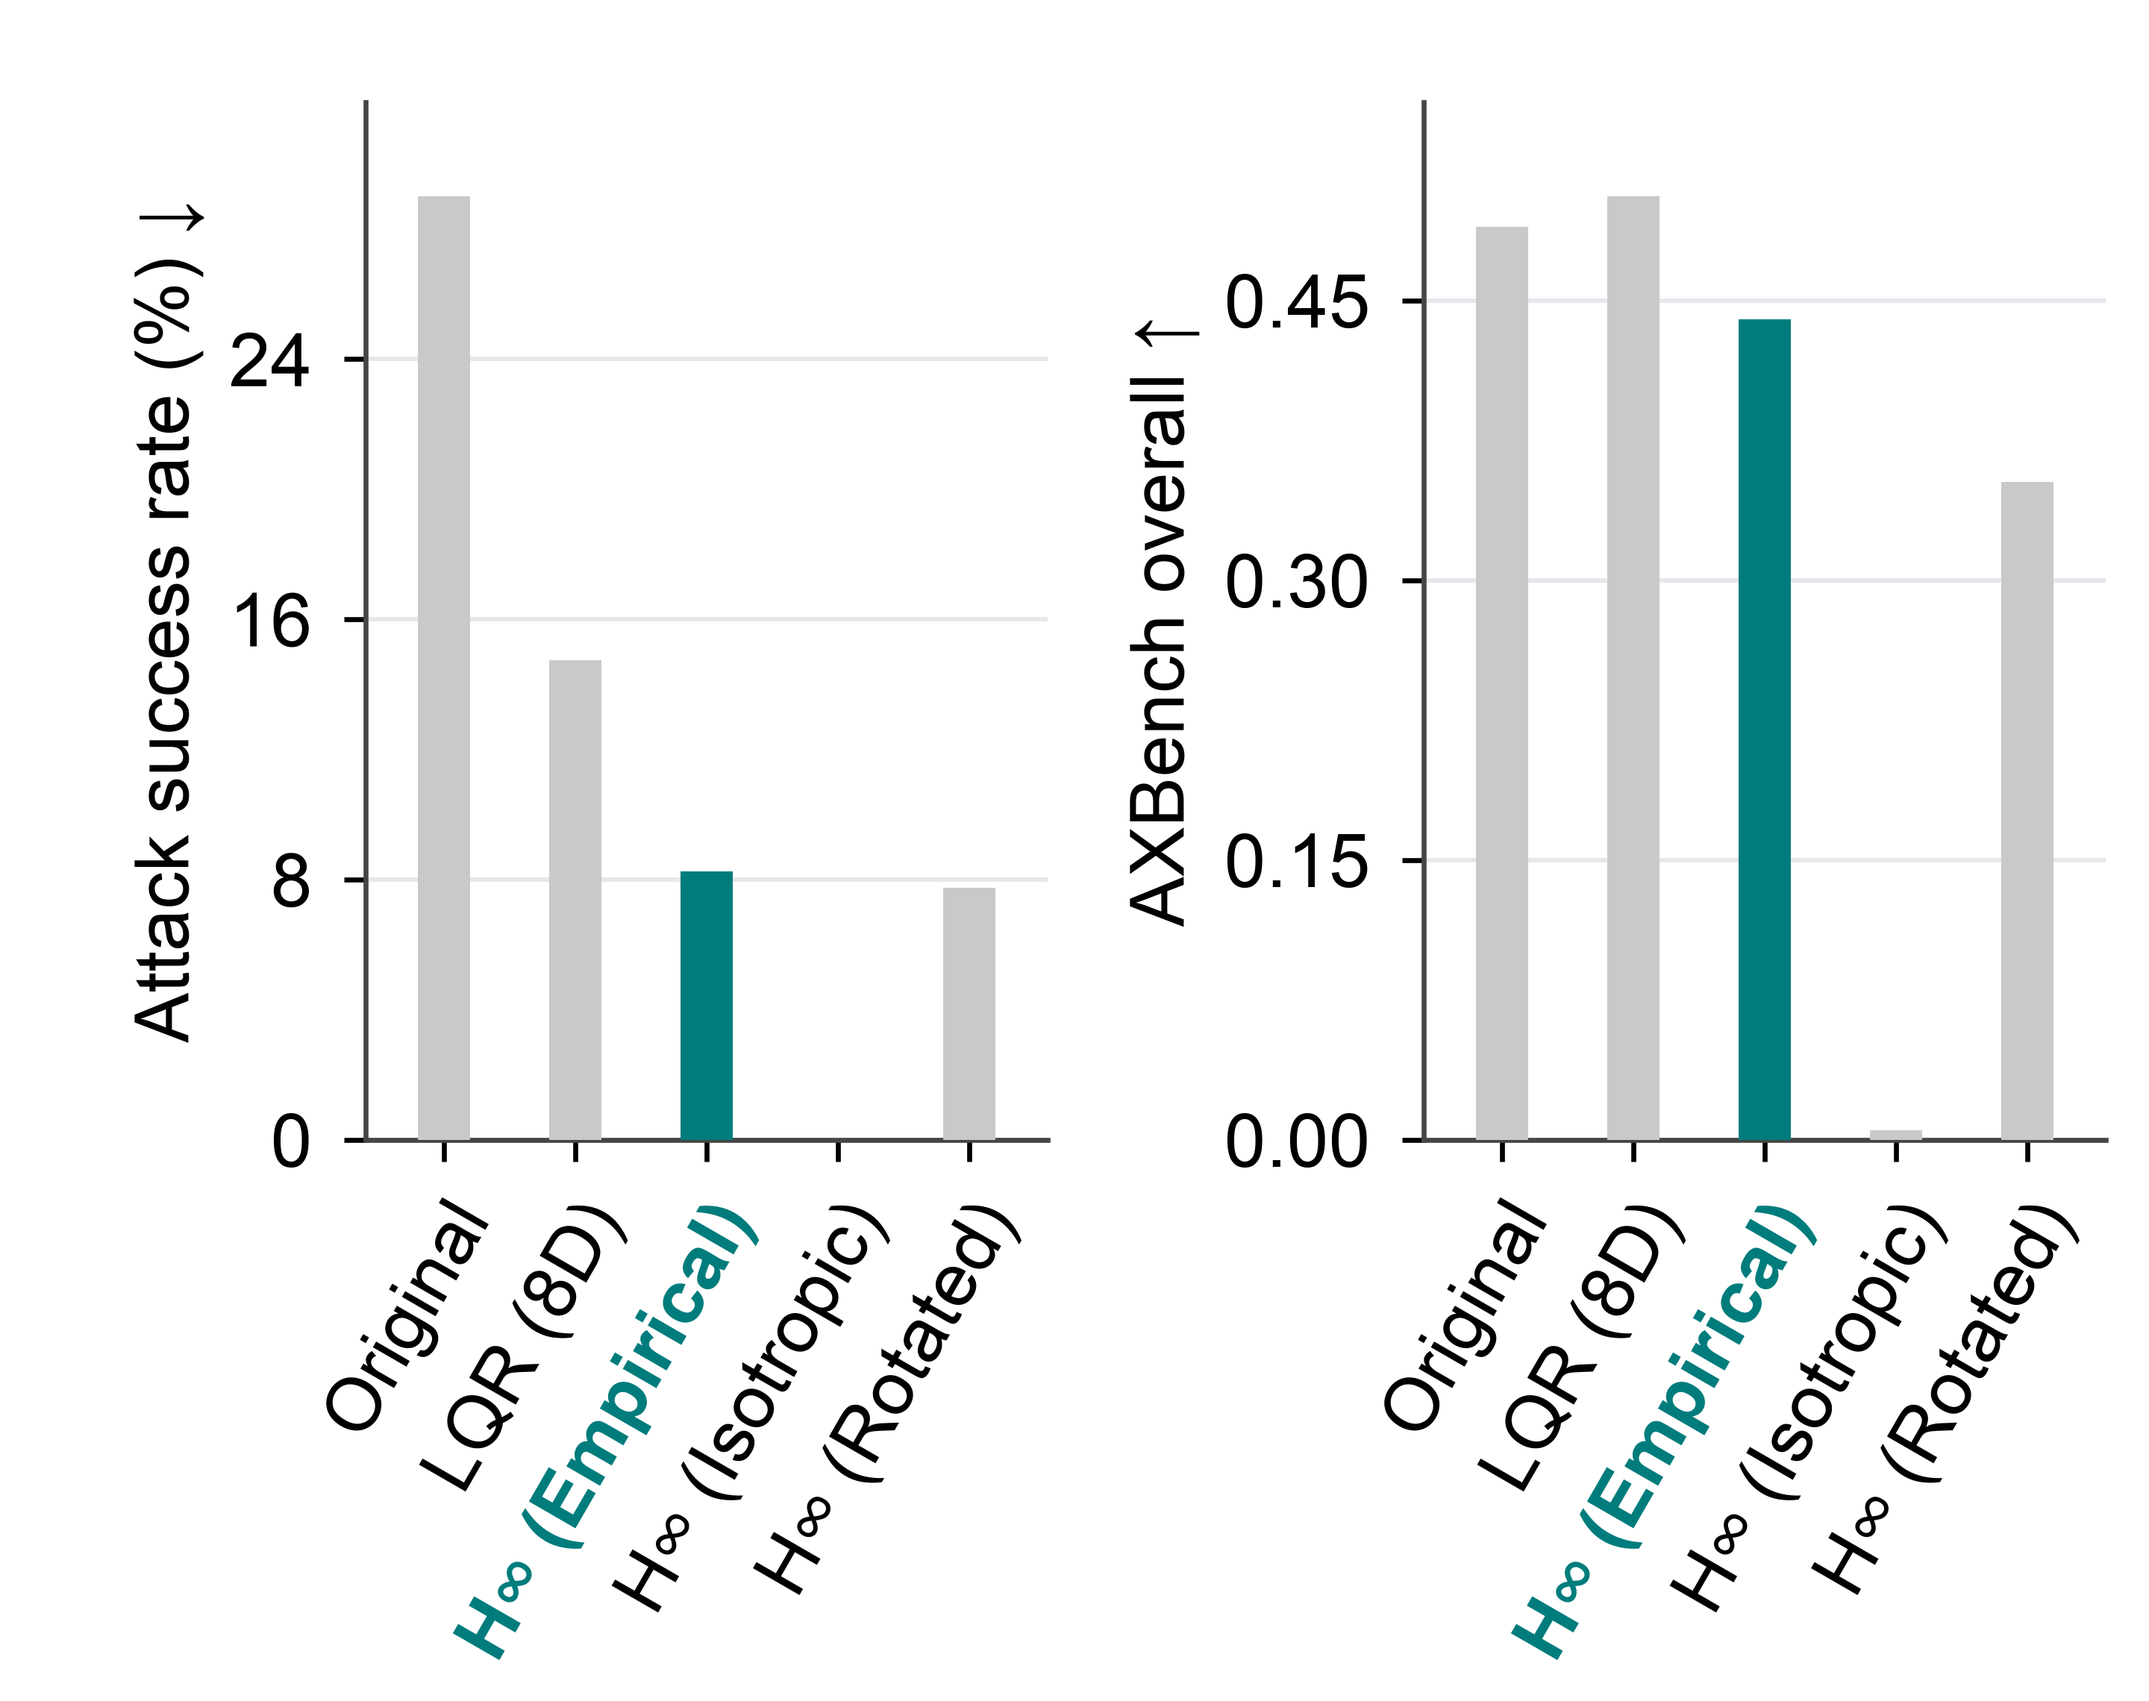
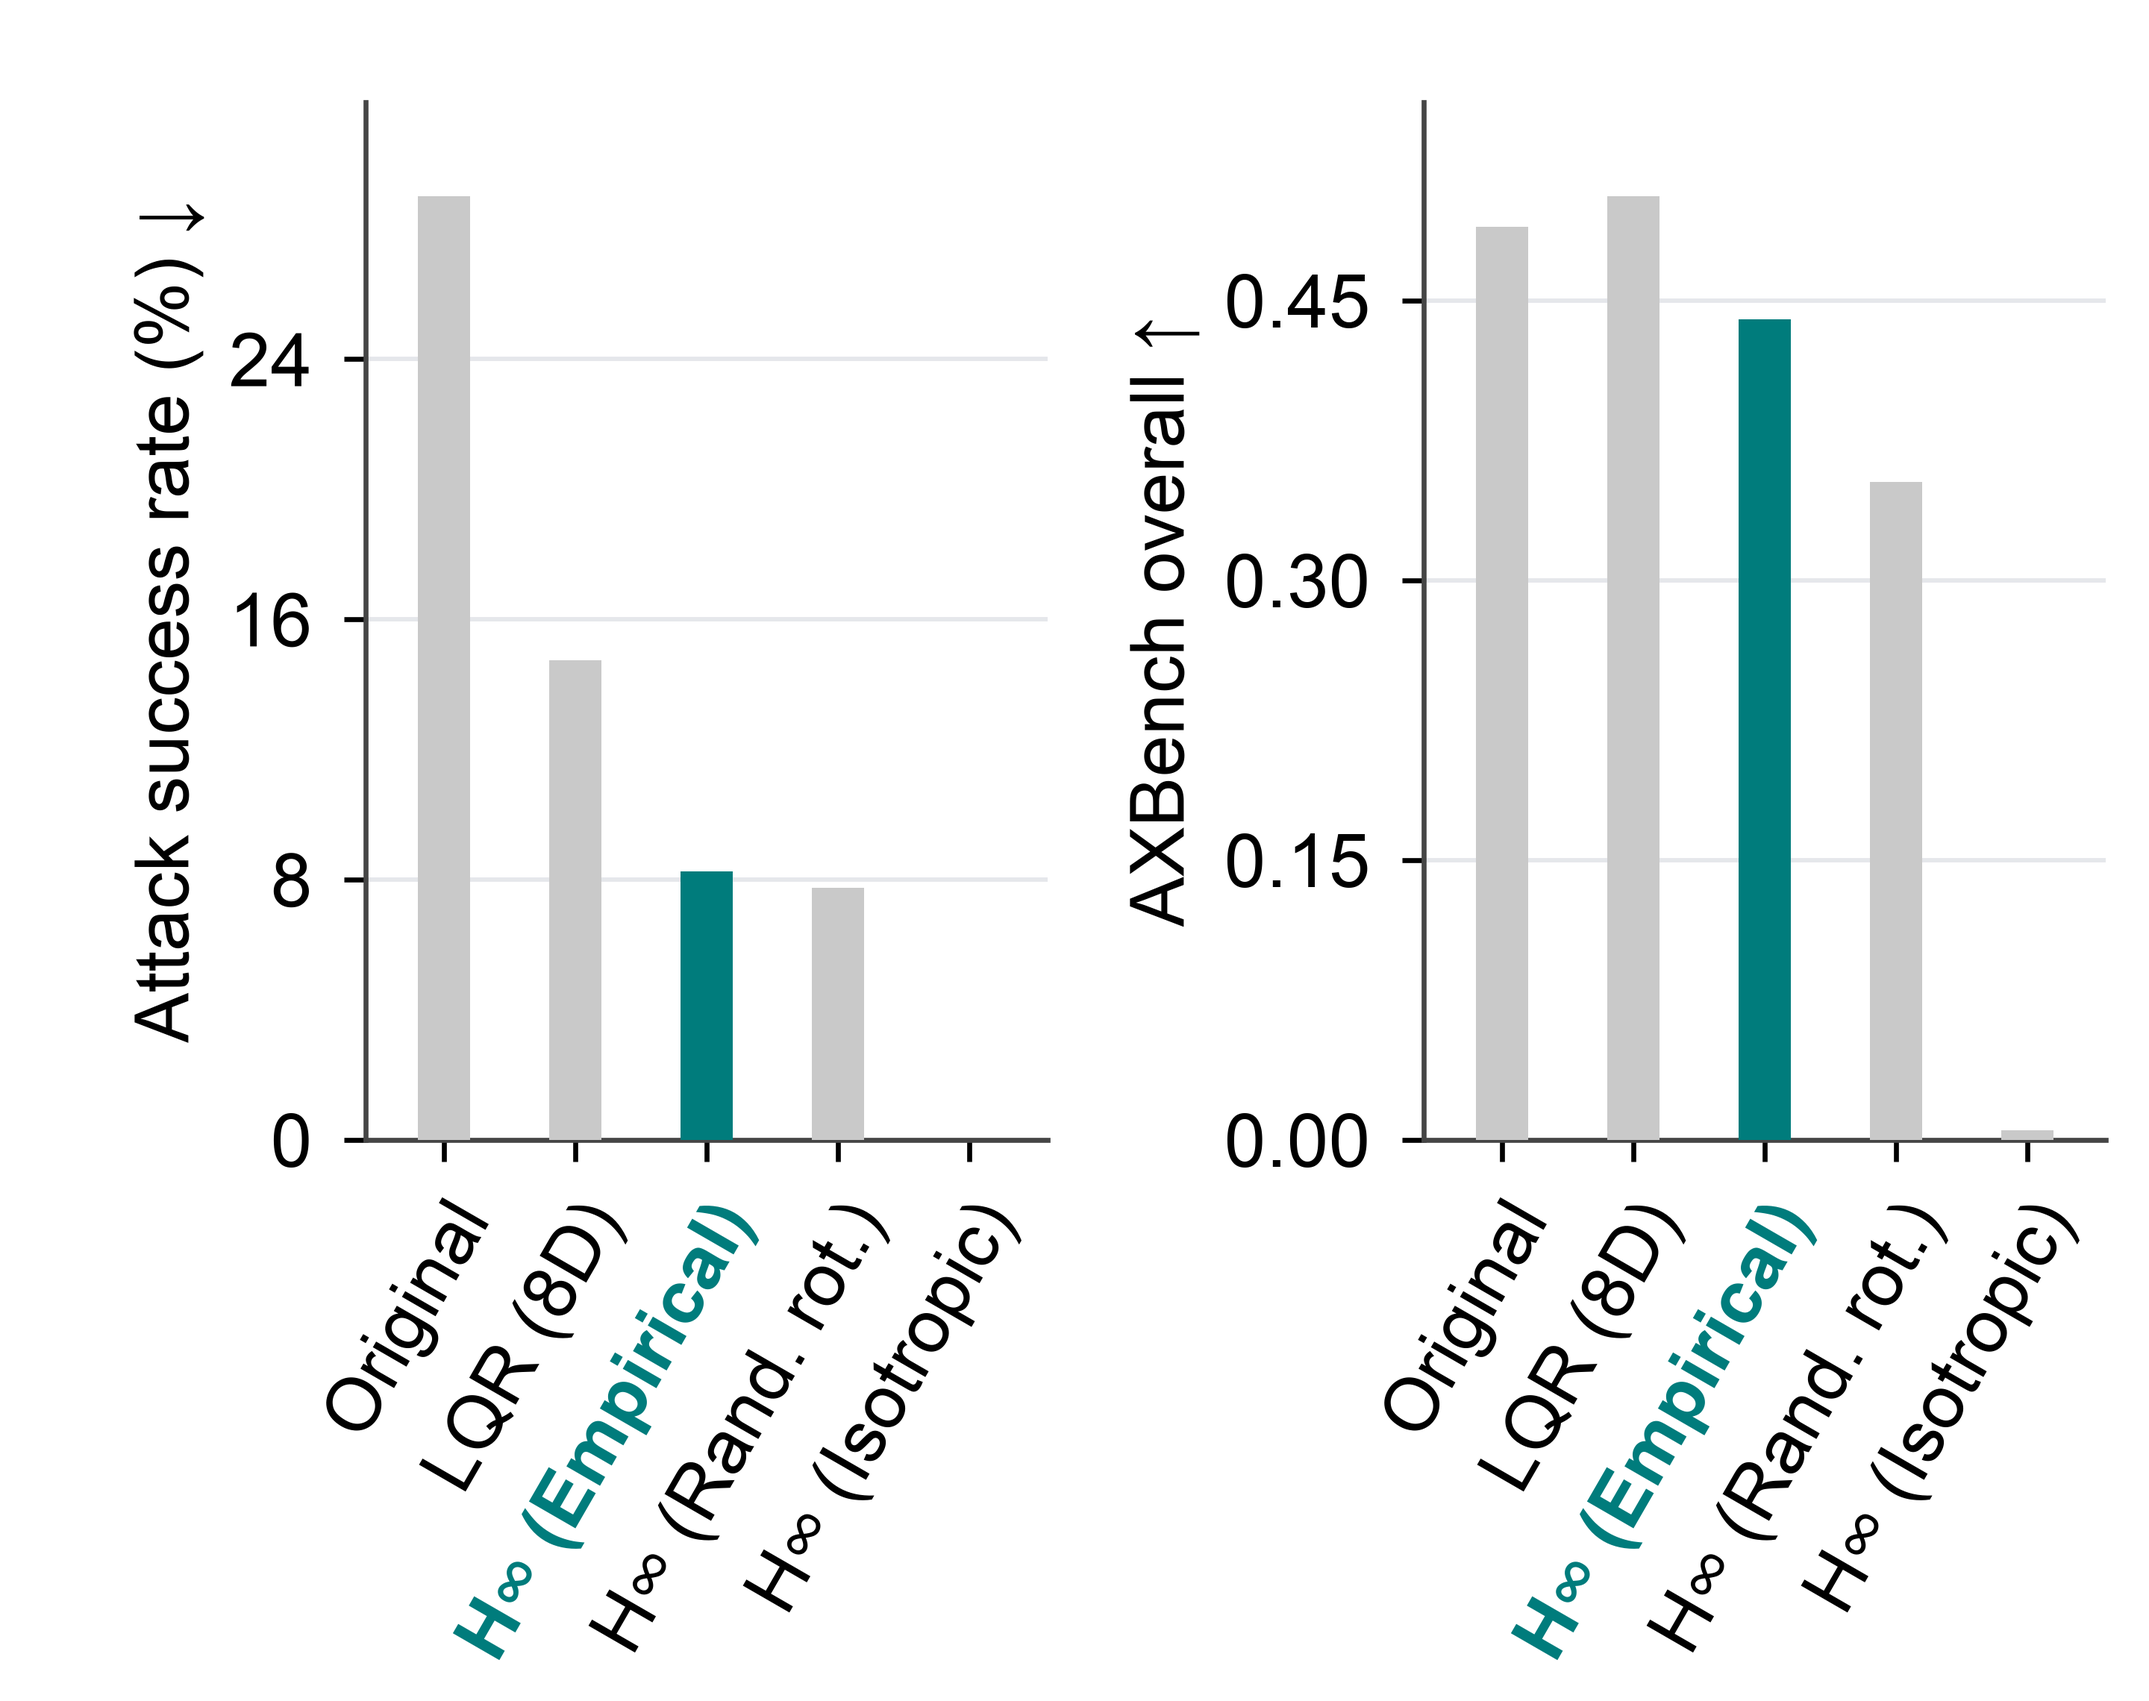
style: reorder geometry arms in the pooled overall figure
Place randomly rotated before isotropic and use the abbreviated Rand. rot. label in both panels. Keep the empirical label and fluency variant unchanged.

diff --git a/parking/rudra_rebuttal_residual_geometry/performance_pooled.py b/parking/rudra_rebuttal_residual_geometry/performance_pooled.py
@@ -52,6 +52,12 @@ def pooled_results():
 def plot_metric(results, right_metric):
     right_label = {'fluency': 'Fluency ↑', 'overall': 'AXBench overall ↑'}[right_metric]
     stem = 'geometry_performance_1x2_pooled' + ('_overall' if right_metric == 'overall' else '')
+    methods, labels = list(METHODS), list(METHOD_LABELS)
+    if right_metric == 'overall':
+        methods[-2:] = ['rotated', 'isotropic']
+        labels[-2:] = ['H∞ (Rand. rot.)', 'H∞ (Isotropic)']
+    lookup = {row['method']: row for row in results}
+    selected = [lookup[method] for method in methods]
     with plt.rc_context({'font.family': 'sans-serif', 'font.sans-serif': ['Arial', 'DejaVu Sans'],
                          'font.size': 12, 'axes.labelsize': 12,
                          'xtick.labelsize': 12, 'ytick.labelsize': 12,
@@ -60,10 +66,10 @@ def plot_metric(results, right_metric):
         fig, axes = plt.subplots(1, 2, figsize=(4.8, 3.8), sharey=False)
         for ax, (metric, label) in zip(axes, [('asr_pct', 'Attack success rate (%) ↓'),
                                             (right_metric, right_label)], strict=True):
-            colors = [TEAL if method == 'empirical' else GRAY for method in METHODS]
-            ax.bar(np.arange(len(METHODS)), [r[metric] for r in results],
+            colors = [TEAL if method == 'empirical' else GRAY for method in methods]
+            ax.bar(np.arange(len(methods)), [r[metric] for r in selected],
                    width=.40, color=colors, edgecolor='none', zorder=3)
-            ax.set_xticks(np.arange(len(METHODS)), METHOD_LABELS)
+            ax.set_xticks(np.arange(len(methods)), labels)
             plt.setp(ax.get_xticklabels(), rotation=60, ha='right', rotation_mode='anchor')
             ax.set_xlim(-.6, len(METHODS) - .4)
             ax.tick_params(axis='both', direction='out', length=3.5, width=.8, pad=5)
@@ -72,7 +78,7 @@ def plot_metric(results, right_metric):
             ax.set_ylim(0, max(r[metric] for r in results) * 1.10)
             ax.yaxis.set_major_locator(MaxNLocator(nbins=4, min_n_ticks=3, integer=metric == 'asr_pct'))
             ax.set_ylabel(label)
-            tick = ax.get_xticklabels()[METHODS.index('empirical')]
+            tick = ax.get_xticklabels()[methods.index('empirical')]
             tick.set_color(TEAL)
             tick.set_fontweight('bold')
         fig.subplots_adjust(left=.17, right=.98, top=.94, bottom=.33, wspace=.55)
